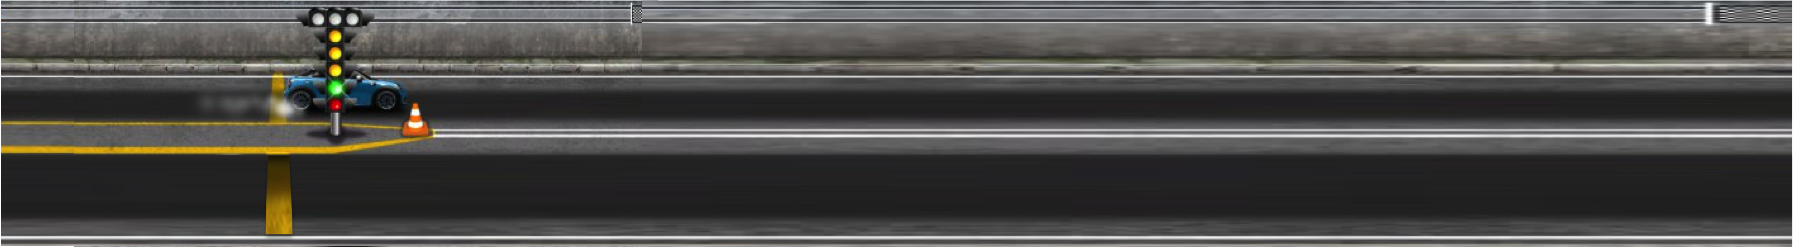
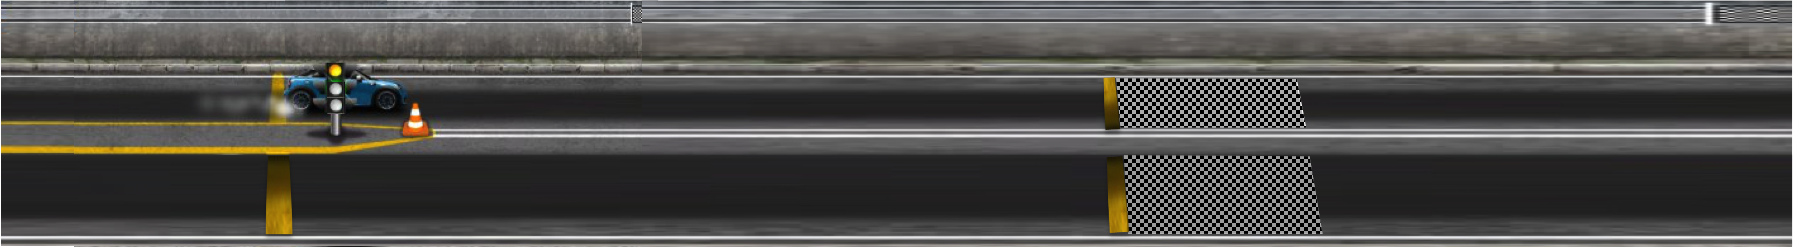
Includes timer in millis

diff --git a/index.html b/index.html
@@ -38,18 +38,17 @@
 
   <tr>     
     <td id="xmas">
-        <img id="start1" class="lights" src="img/start1-on.png" alt="start1" height="30" width="80">
-      
-      <img id="start2" class="lights" src="img/start2-off.png" alt="start2" height="30" width="80"> 
-      
-      <img id="start3" class="lights" src="img/start3_off.png" alt="start3" height="30" width="80"> 
-      <img id="start4" class="lights" src="img/start4_off.png" alt="start4" height="30" width="80"> 
-      <img id="start5" class="lights" src="img/start5_off.png" alt="start5" height="30" width="80"> 
-      
-      <img id="start6" class="lights" src="img/start6_off.png" alt="green" height="30" width="80"> 
-      <img id="start7" class="lights" src="img/start7_off.png" alt="start7" height="27" width="80"> 
-      
-      <img class="lights" src="img/base.png" alt="base" height="30" width="80">
+        <div class="list-group-1">
+        <a href="#" class="list-group-item disabled">
+          Instructions
+        </a>
+        <a href="#" class="list-group-item">1. Turn the car on by pressing key "T"</a>
+        <a href="#" class="list-group-item">2. Move the car into the staging area, before the cone.</a>
+        <a href="#" class="list-group-item">3. Race the car down the racetrack when green light turn on</a>
+        <a href="#" id="OffMessage" class="list-group-item list-group-item-danger">The car is Off</a>
+
+
+      </div>
 
 
     </td>
@@ -57,17 +56,47 @@
 
     <td id="instructions">
       
-      <p>1. Turn the car on by pressing key "T"</p>
-      <p>2. Move the car into the staging area, before the cone</p>
-      <p>3. Race the car down the racetrack when green light turn on</p>
-    </td>
-    
+      <div class="list-group">
+        <a href="#" class="list-group-item disabled">
+          Timer (milliseconds)
+        </a>
+        <a id="watch-1" href="#" class="list-group-item">00:00:00:00</a>
+        <a href="#" class="list-group-item">00:00:00:00</a>
+        <a href="#" class="list-group-item">00:00:00:00</a>
+        <a href="#" class="list-group-item">00:00:00:00</a>
+
+
+      </div>
+
+
 
   </tr>
     
     <tr>
       <td id="tracks" colspan="2">
         <div id="track">
+          <img id="start1" class="lights" src="img/start1-on.png" alt="start1" height="26" width="64">
+          
+          <img id="start2" class="lights" src="img/start2-off.png" alt="start2" height="26" width="64"> 
+      
+      <img id="start3" class="lights" src="img/start3_off.png" alt="start3" height="23" width="60"> 
+      <img id="start4" class="lights" src="img/start4_off.png" alt="start4" height="23" width="60"> 
+      <img id="start5" class="lights" src="img/start5_off.png" alt="start5" height="23" width="60"> 
+      
+      <img id="start6" class="lights" src="img/start6_off.png" alt="green" height="23" width="60"> 
+      <img id="start7" class="lights" src="img/start7_off.png" alt="start7" height="22" width="60"> 
+      
+      <img class="lights" src="img/base.png" alt="base" height="10" width="64" >
+
+
+
+
+
+
+
+
+
+
           <div id="preStageLine"></div>
           <div id="StageLine"></div>
           <img id="dragster1" src="img/car.png" height="70" width="150" >

diff --git a/game.js b/game.js
@@ -6,7 +6,7 @@ function Game(){
 }
 
 function moves() {
-	window.addEventListener("keyup",function(event){
+	window.addEventListener("keydown",function(event){
 		if (event.keyCode === 39) {
 			advance();					
 		}	
@@ -71,15 +71,21 @@ function moves() {
 	function greenLight(){
 	var bulb6 = document.getElementById("start6");
 	bulb6.setAttribute("src", "img/start6_on.png");
+	
 	var bublb5 = document.getElementById("start5");
 	bublb5.setAttribute("src", "img/start5_off.png");
+	
+
+
 	}	
 
 	function redLight () {
 		var bulb7 = document.getElementById("start7");
 		bulb7.setAttribute("src", "img/start7_on.png");
+
 		var bublb6 = document.getElementById("start6");
 		bublb6.setAttribute("src", "img/start6_off.png");
+		setTimeout(alert("Foul!"),5000);
 	}
 
 
@@ -93,6 +99,8 @@ function dragster(){
 function turnon(){
 	window.addEventListener("keyup",function(event){
 		if (event.keyCode === 84) {
+			document.getElementById("OffMessage").innerHTML = ("The car is On");
+			document.getElementById("OffMessage").setAttribute("class","list-group-item list-group-item-success");	
 			moves();
 		}
 	});	
@@ -102,15 +110,31 @@ function turnon(){
 
 function advance () {
 	this.$carrito.style.left = parseInt(this.$carrito.style.left,10) + 10 + "px";
-	
-	
-	
+	var t1 = 0;
+	var t2 = 0;	
 	if (this.$carrito.style.left === "226px") {
 		 preStageLights();	
-	} else if (parseInt(this.$carrito.style.left) > 226) {
-		console.log(this.$carrito.style.left);
+	} else if (parseInt(this.$carrito.style.left) > 226 && document.getElementById("start6").getAttribute("src")=== "img/start6_off.png") {
 		redLight();
+	}else if (this.$carrito.style.left === "236px") {
+		 t1 = performance.now();
+		console.log("Inicia");
+	}else if (this.$carrito.style.left === "936px") {
+		 t2 = performance.now();
+		var finalTime = t2 - t1; 	
+		 
+		finalTime2 = (finalTime / 1000) % 60;
+		console.log(finalTime2);
+
+		var totalTime = document.getElementById("watch-1").innerHTML = "00:00:00:" + Math.round(finalTime2);
+
+		alert("Finished. Your time is:" + totalTime + " milliseconds");
 	}
+
+	
+
+
+
 }
 
 

diff --git a/main.css b/main.css
@@ -5,21 +5,21 @@
 }
 
 #instructions, #xmas {
-	width: 800px;
-	height: 250px;
+	width: 900px;
+	
 	
 }
 
 #xmas {
 	width: 800px;
-	height: 250px;
+	height: 150px;
 }
 
 #dash {
 	
 	height: 250px;	
 	position: absolute;
-	margin-top: -130px;
+	margin-top: -190px;
 }
 
 #tracks {
@@ -30,11 +30,18 @@
 	z-index: -1;
 }
 
+#track {
+	width: 1280px;
+	height: 200px;
+	margin-left: auto;
+	margin-right: auto; 
+	background-image: url("img/track.png"); 
+	margin-top: -160px;
+}
+
 body {
 	background-color: rgb(222,222,222);
 }
-
- 
 
 .nav {
 	margin-top: 5px;
@@ -48,24 +55,32 @@ body {
 	
 }
 
+.list-group {
+	width: 440px;
+	height: 192px;
+	margin-top: -10px;
+	margin-left: 40px;
+}
+
+.list-group-1 {
+	width: 440px;
+	height: 192px;
+	margin-left: 160px;
+	margin-top: -30px;
+}
+
 .lights {
 	
 	display: block;
-	margin-left: auto;
-	margin-right: auto;
+	position: relative;
+	margin-left: 305px;
+	margin-top: -7px;
+	padding-top: 5px;
 }
 
-#track {
-	width: 1280px;
-	height: 200px;
-	margin-left: auto;
-	margin-right: auto; 
-	background-image: url("img/track.png"); 
-	margin-top: -100px;
-}
 
 #dragster1 {
-	margin-top: 140px;
+	margin-top: 0px;
 	margin-left: 50px;
 	position: absolute;
 	
@@ -82,12 +97,13 @@ body {
 #StageLine {
 	
 	width: 2px;
-	height: 46px;
-	margin-top: 150px;
+	height: 18px;
+	margin-top: 0px;
 	border: 1px dotted orange;
 	position: absolute;
 	margin-left: 415px;	
 }
+
 
 
 
